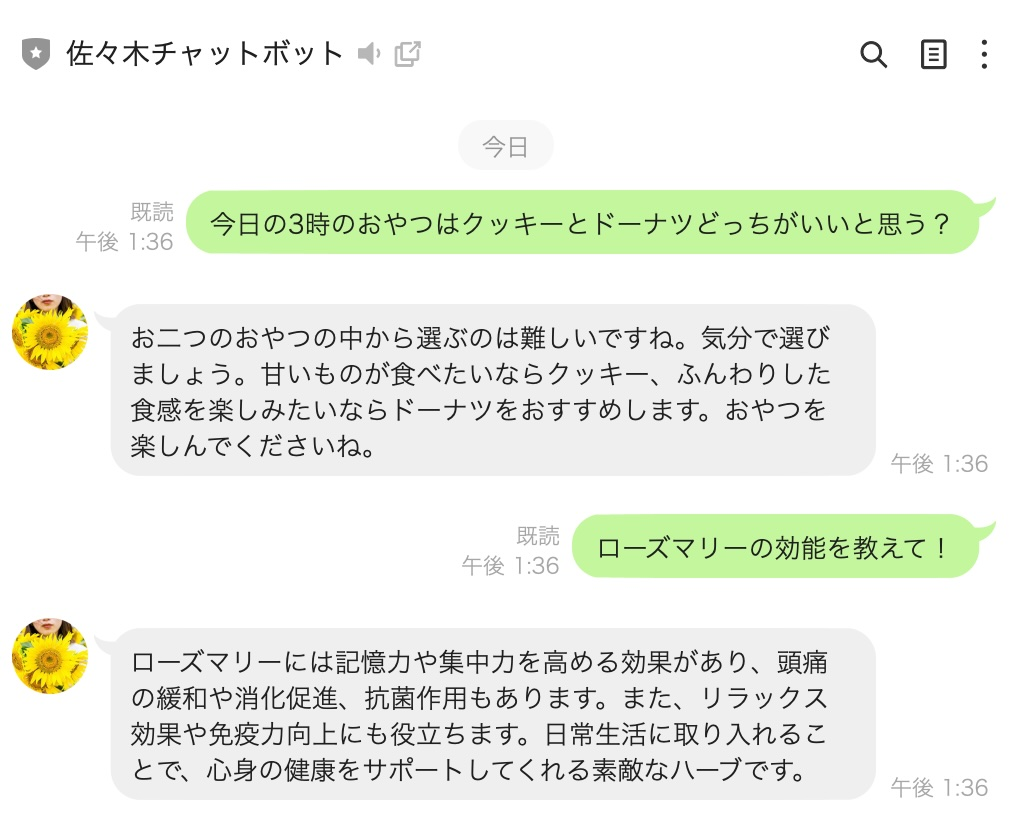
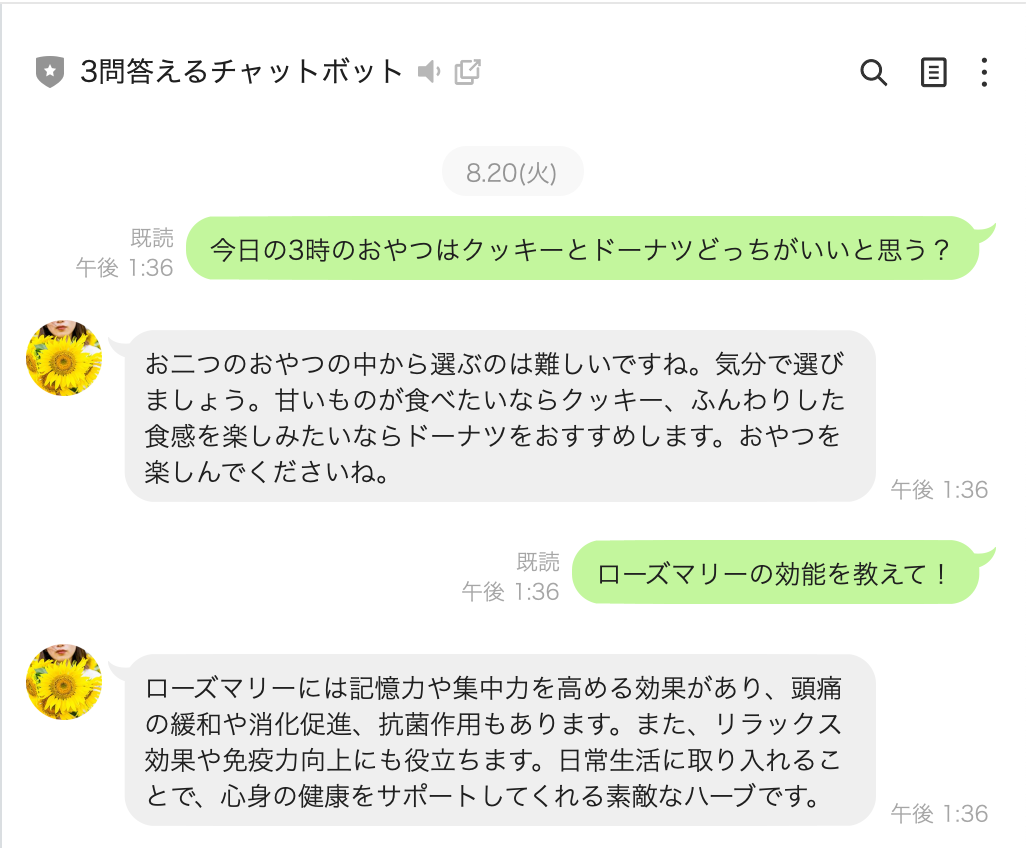
Fixed: About chatbots

diff --git a/works/02.html b/works/02.html
@@ -35,12 +35,12 @@
     <section class="p-work-firstview">
       <div class="section-inner">
         <!-- 記載番号：2（記載番号2は5行目にもあるので気をつけてください） -->
-        <h2>佐々木チャットボット（チャットボット）</h2>
+        <h2>3問答えるチャットボット（チャットボット）</h2>
         <div class="p-work-firstview__pict obj-fit-img">
           <!-- images/02に配置した、オリジナルアプリの画像（PC版）のパスを記載する -->
           <img src="../images/work/02/pict-work02-firstview_pc.jpg" class="show-pc">
           <!-- images/02に配置した、オリジナルアプリの画像（SP版）のパスを記載する -->
-          <img src="../images/work/02/pict-work02-firstview_sp.jpg" class="show-sp">
+          <img src="../images/work/02/pict-work02-firstview_pc.jpg" class="show-sp">
         </div>
         <div class="p-work-firstview__text-area">
           <h3 class="p-work-firstview__text-titile">開発環境</h3>
@@ -222,7 +222,7 @@
               </div>
               <div class="p-work-others__item-text-block">
                 <!-- 記載番号：17 -->
-                <h3>佐々木チャットボット（チャットボット）</h3>
+                <h3>3問答えるチャットボット（チャットボット）</h3>
                 <!-- 記載番号：18 -->
                 <p>Python / Flask /openAI / LINE / GitHub / Render / Visual Studio Code</p>
               </div>

diff --git a/works/01.html b/works/01.html
@@ -216,7 +216,7 @@
               </div>
               <div class="p-work-others__item-text-block">
                 <!-- 記載番号：17 -->
-                <h3>佐々木チャットボット（チャットボット）</h3>
+                <h3>3問答えるチャットボット（チャットボット）</h3>
                 <!-- 記載番号：18 -->
                 <p>Python / Flask /openAI / LINE / GitHub / Render / Visual Studio Code</p>
               </div>

diff --git a/index.html b/index.html
@@ -200,7 +200,7 @@
               </div>
               <div class="works__item-text-block">
                 <!-- 記載番号：20 -->
-                <h3>佐々木チャットボット（チャットボット）</h3>
+                <h3>3問答えるチャットボット（チャットボット）</h3>
                 <!-- 記載番号：21 -->
                 <p> Python / Flask /openAI / LINE / GitHub /
                   Render / Visual Studio Code</p>
